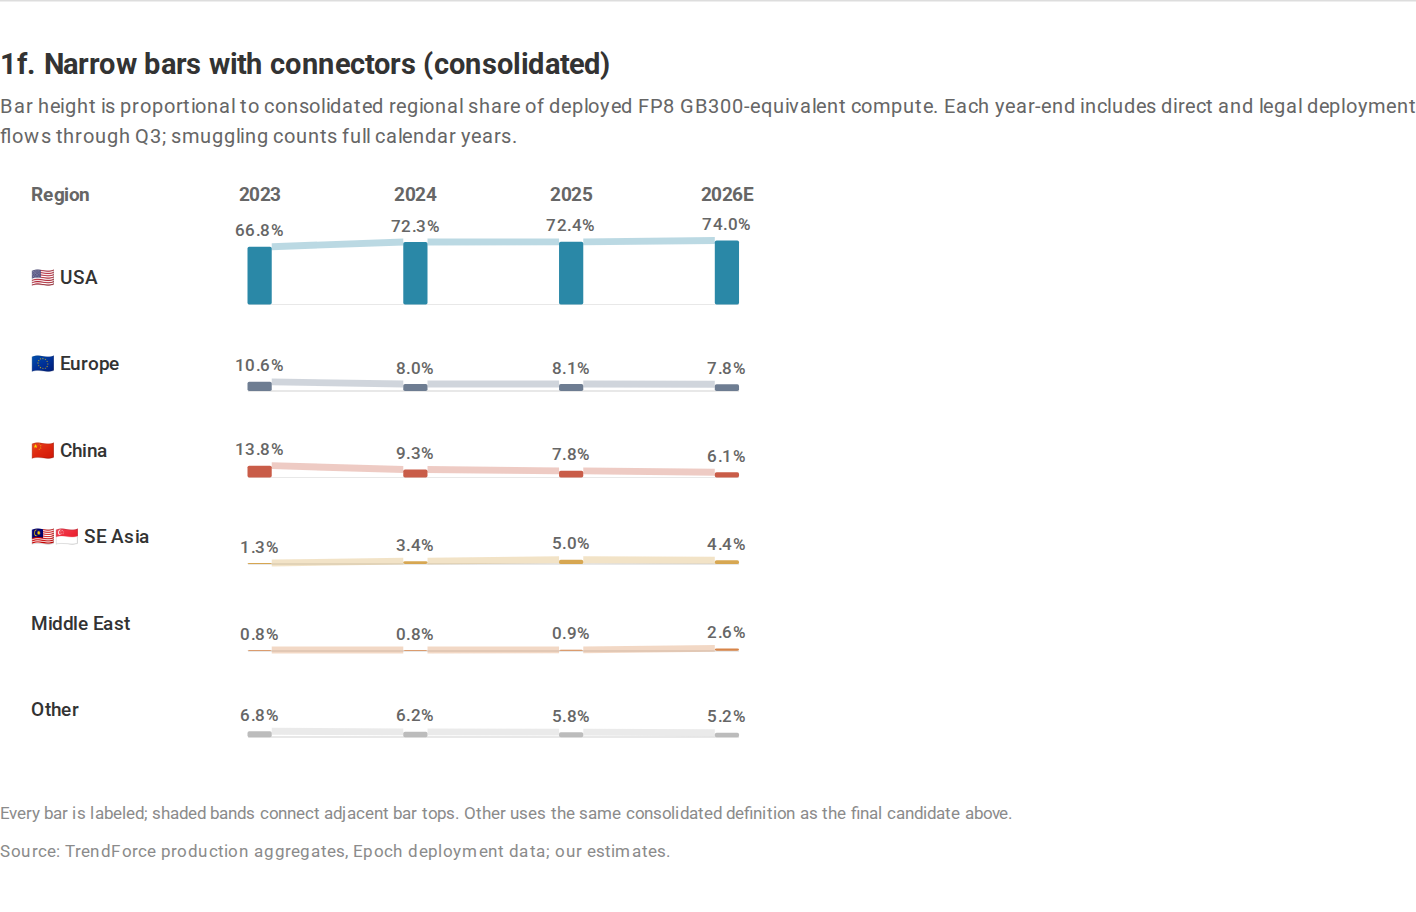
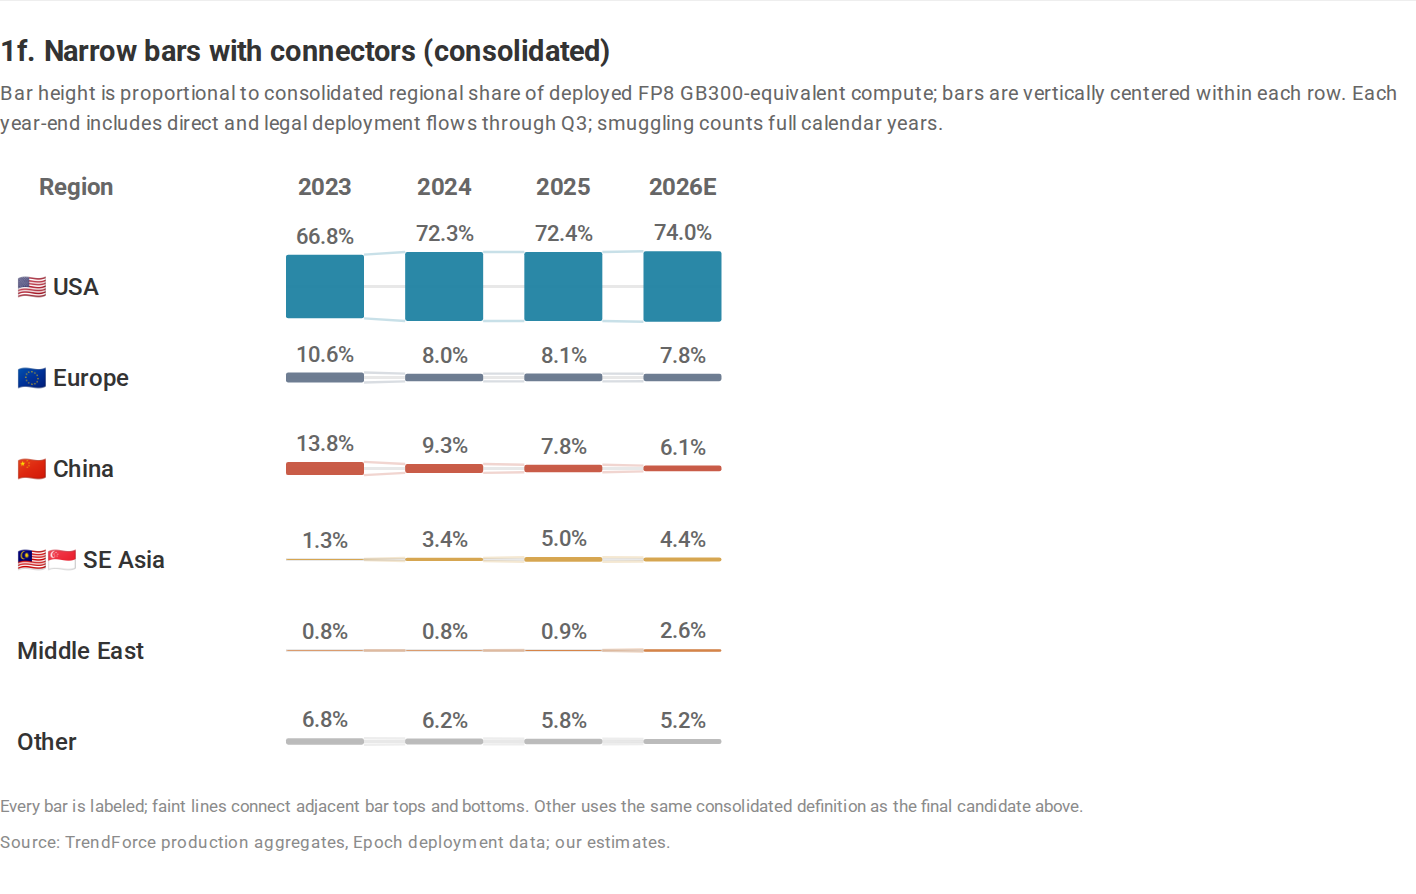
Revise consolidated connector chart

diff --git a/docs/compute-over-time.html b/docs/compute-over-time.html
@@ -69,8 +69,8 @@
   .bar-family { padding: 0 0 34px; }
   .final-candidate { padding: 0 0 32px; }
   .final-candidate .chart { max-width: 600px; }
-  .connector-candidate { padding: 30px 0 32px; border-top: 1px solid var(--border); }
-  .connector-candidate .chart { max-width: 600px; }
+  .connector-candidate { padding: 22px 0 24px; border-top: 1px solid var(--border); }
+  .connector-candidate .chart { max-width: 520px; }
   .bar-family > h2 { margin-bottom: 16px; font-size: 21px; }
   .bar-prototype { padding: 24px 0 28px; border-top: 1px solid var(--border); }
   .bar-prototype:first-of-type { padding-top: 0; border-top: 0; }
@@ -143,10 +143,10 @@
   <section class="connector-candidate" aria-labelledby="title-final-1f">
     <div class="chart-head">
       <h2 id="title-final-1f">1f. Narrow bars with connectors (consolidated)</h2>
-      <p class="chart-subtitle">Bar height is proportional to consolidated regional share of deployed FP8 GB300-equivalent compute. Each year-end includes direct and legal deployment flows through Q3; smuggling counts full calendar years.</p>
+      <p class="chart-subtitle">Bar height is proportional to consolidated regional share of deployed FP8 GB300-equivalent compute; bars are vertically centered within each row. Each year-end includes direct and legal deployment flows through Q3; smuggling counts full calendar years.</p>
     </div>
     <div class="chart" id="chart-final-1f"></div>
-    <p class="bar-footnote">Every bar is labeled; shaded bands connect adjacent bar tops. Other uses the same consolidated definition as the final candidate above.</p>
+    <p class="bar-footnote">Every bar is labeled; faint lines connect adjacent bar tops and bottoms. Other uses the same consolidated definition as the final candidate above.</p>
     <p class="chart-source">Source: TrendForce production aggregates, Epoch deployment data; our estimates.</p>
   </section>
 
@@ -562,42 +562,43 @@
   }
 
   function drawNarrowBarConnectors() {
-    const svg = svgFor("chart-final-1f", 360, "Six consolidated regional AI compute share trends shown as narrow annual bars connected at their tops, 2023 to 2026");
-    svg.setAttribute("viewBox", "0 0 520 360");
+    const svg = svgFor("chart-final-1f", 290, "Six consolidated regional AI compute share trends shown as centered annual bars with lines tracing their top and bottom edges, 2023 to 2026");
+    svg.setAttribute("viewBox", "0 0 360 290");
     const consolidated = finalConsolidatedShares();
-    const centers = [150, 240, 330, 420];
-    const rowStart = 78;
-    const rowGap = 50;
-    const narrowBarWidth = 14;
-    const connectorOpacity = .3;
-    const connectorHalfThickness = 2;
-    const heightForShare = value => value / 100 * 50;
+    const centers = [150, 205, 260, 315];
+    const rowStart = 60;
+    const rowGap = 42;
+    const narrowBarWidth = 36;
+    const connectorOpacity = .24;
+    const heightForShare = value => value / 100 * 44;
 
     addText(svg, 18, 18, "Region", "axis-unit");
     DATA.yearLabels.forEach((label, index) => addText(svg, centers[index], 18, label.replace("EOY ", ""), "axis-unit", "middle"));
 
     FINAL_REGION_ORDER.forEach((region, rowIndex) => {
-      const baseline = rowStart + rowIndex * rowGap;
+      const centerY = rowStart + rowIndex * rowGap;
       const values = consolidated[region];
-      const tops = values.map(value => baseline - heightForShare(value));
-      addText(svg, 18, baseline - 12, regionLabel(region), "row-label");
-      svg.appendChild(el("line", { x1: centers[0] - narrowBarWidth / 2, y1: baseline, x2: centers[3] + narrowBarWidth / 2, y2: baseline, class: "grid-line" }));
+      const geometry = values.map(value => {
+        const height = heightForShare(value);
+        const top = centerY - height / 2;
+        const bottom = centerY + height / 2;
+        return { height, top, bottom };
+      });
+      addText(svg, 8, centerY + 4, regionLabel(region), "row-label");
+      svg.appendChild(el("line", { x1: centers[0] - narrowBarWidth / 2, y1: centerY, x2: centers[3] + narrowBarWidth / 2, y2: centerY, class: "grid-line" }));
 
       for (let index = 0; index < centers.length - 1; index += 1) {
         const leftX = centers[index] + narrowBarWidth / 2;
         const rightX = centers[index + 1] - narrowBarWidth / 2;
-        svg.appendChild(el("polygon", {
-          points: `${leftX},${tops[index] - connectorHalfThickness} ${rightX},${tops[index + 1] - connectorHalfThickness} ${rightX},${tops[index + 1] + connectorHalfThickness} ${leftX},${tops[index] + connectorHalfThickness}`,
-          fill: COLORS[region],
-          opacity: connectorOpacity
-        }));
+        svg.appendChild(el("line", { x1: leftX, y1: geometry[index].top, x2: rightX, y2: geometry[index + 1].top, stroke: COLORS[region], "stroke-width": 1.1, opacity: connectorOpacity }));
+        svg.appendChild(el("line", { x1: leftX, y1: geometry[index].bottom, x2: rightX, y2: geometry[index + 1].bottom, stroke: COLORS[region], "stroke-width": 1.1, opacity: connectorOpacity }));
       }
 
       values.forEach((value, yearIndex) => {
-        const height = heightForShare(value);
+        const { height, top } = geometry[yearIndex];
         const bar = el("rect", {
           x: centers[yearIndex] - narrowBarWidth / 2,
-          y: tops[yearIndex],
+          y: top,
           width: narrowBarWidth,
           height,
           rx: 1,
@@ -606,7 +607,7 @@
         });
         bar.appendChild(el("title", {}, `${region}: ${DATA.yearLabels[yearIndex]} ${value.toFixed(1)}%`));
         svg.appendChild(bar);
-        addText(svg, centers[yearIndex], tops[yearIndex] - 6, `${value.toFixed(1)}%`, "cell-value", "middle");
+        addText(svg, centers[yearIndex], top - 5, `${value.toFixed(1)}%`, "cell-value", "middle");
       });
     });
   }

diff --git a/runs/ts-v1/chart-prototypes/build_log.md b/runs/ts-v1/chart-prototypes/build_log.md
@@ -86,3 +86,12 @@
 - Local browser QA rendered all twelve SVG charts without console or page errors, found no horizontal overflow at 390 pixels, and captured `variant-1f.png`. The refreshed `final-candidate-1e.png` records the newly visible Middle East labels.
 - Published in commit `690973a` (`Add consolidated narrow-bar connector variant`) and pushed to `main`.
 - GitHub Pages updated on the third polling attempt. Live browser QA returned HTTP 200, rendered twelve SVGs with zero console or page errors, confirmed the repaired Middle East labels, and retained the noindex directive.
+
+## Consolidated narrow-bar connector revision (2026-08-20)
+
+- Revised variant 1f in place while preserving its title, six-row order, flags, colors, data, and all-value labels.
+- Increased the annual bars from 14 to 36 view-box units (2.6×). Year centers are 55 units apart, leaving 19-unit gaps—narrower than the bars.
+- Centered every bar vertically on its region's row axis. The same linear scale governs every row, so the top and bottom edges move symmetrically as a share changes.
+- Replaced each filled connector band with two 1.1-unit lines at 24% opacity: one joins adjacent tops and the other joins adjacent bottoms.
+- Reduced the chart view box from 520×360 to 360×290, row spacing from 50 to 42 units, and the chart display cap from 600 to 520 pixels.
+- Local browser QA rendered all twelve SVG charts without console or page errors, found no horizontal overflow at 390 pixels, and refreshed `variant-1f.png`. Visual inspection found no clipped labels, overlaps, or residual filled connector bands.
